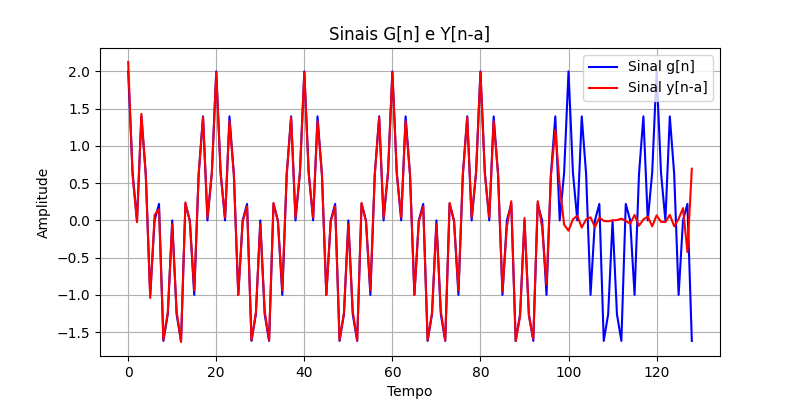
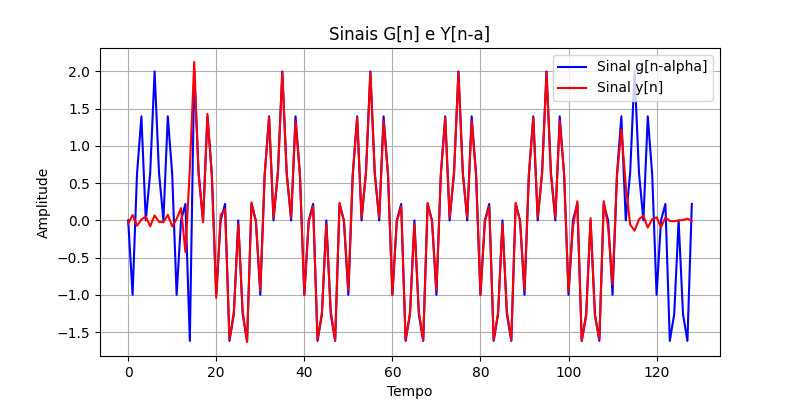
fix: Adjuste question 09

Changed region(s): [[0.1562, 0.15, 0.9062, 0.87]]

diff --git a/low-pass-Filtering.py b/low-pass-Filtering.py
@@ -92,7 +92,7 @@ frequencies, groupDelay = signal.group_delay((h_ideal, 1))
 # Definir valores do eixo X
 x = np.linspace(-np.pi, np.pi, len(groupDelay))
 
-plot_graph(x, groupDelay, 'Atraso de Grupo do Sistema', 'Frequência (rad/sample)', 'Atraso de Grupo (samples)')
+plot_graph(x, groupDelay, 'Atraso de Grupo do Sistema', 'Frequência', 'Atraso de Grupo (samples)')
 
 
 #__________________________ Questão 07 _____________________________________
@@ -127,12 +127,12 @@ frequencies = [0.1 * mt.pi, 0.6 * mt.pi]
 # Gera o sinal somando as componentes de frequência
 Gn = np.sum([np.cos(omega * n) for omega in frequencies], axis=0)
 
-alpha = -15
+alpha = 15
 
-# Aplica um atraso em y: y[n-a]
-Yn_offset = np.roll(Yn, alpha);
+# Aplica um atraso em G: G[n-alpha]
+Gn_offset = np.roll(Gn, alpha);
 
-plot_graph(n, Gn, 'Sinais G[n] e Y[n-a]', 'Tempo', 'Amplitude', Yn_offset, 'Sinal g[n]', 'Sinal y[n-a]')
+plot_graph(n, Gn_offset, 'Sinais G[n] e Y[n-a]', 'Tempo', 'Amplitude', Yn, 'Sinal g[n-alpha]', 'Sinal y[n]')
 
 #__________________________ Questão 10 _____________________________________
 
@@ -161,7 +161,7 @@ w, hFreqResponse = signal.freqz(b, a)
 # Definir valores do eixo X
 x = np.linspace(-np.pi, np.pi, len(hFreqResponse))
 
-plot_graph(x, hFreqResponse, 'Módulo da Resposta em Frequência do Filtro Butterworth', 'Frequência (rad/sample)', 'Amplitude', color='green')
+plot_graph(x, hFreqResponse, 'Módulo da Resposta em Frequência do Filtro Butterworth', 'Frequência', 'Amplitude', color='green')
 
 
 #__________________________ Questão 13 _____________________________________
